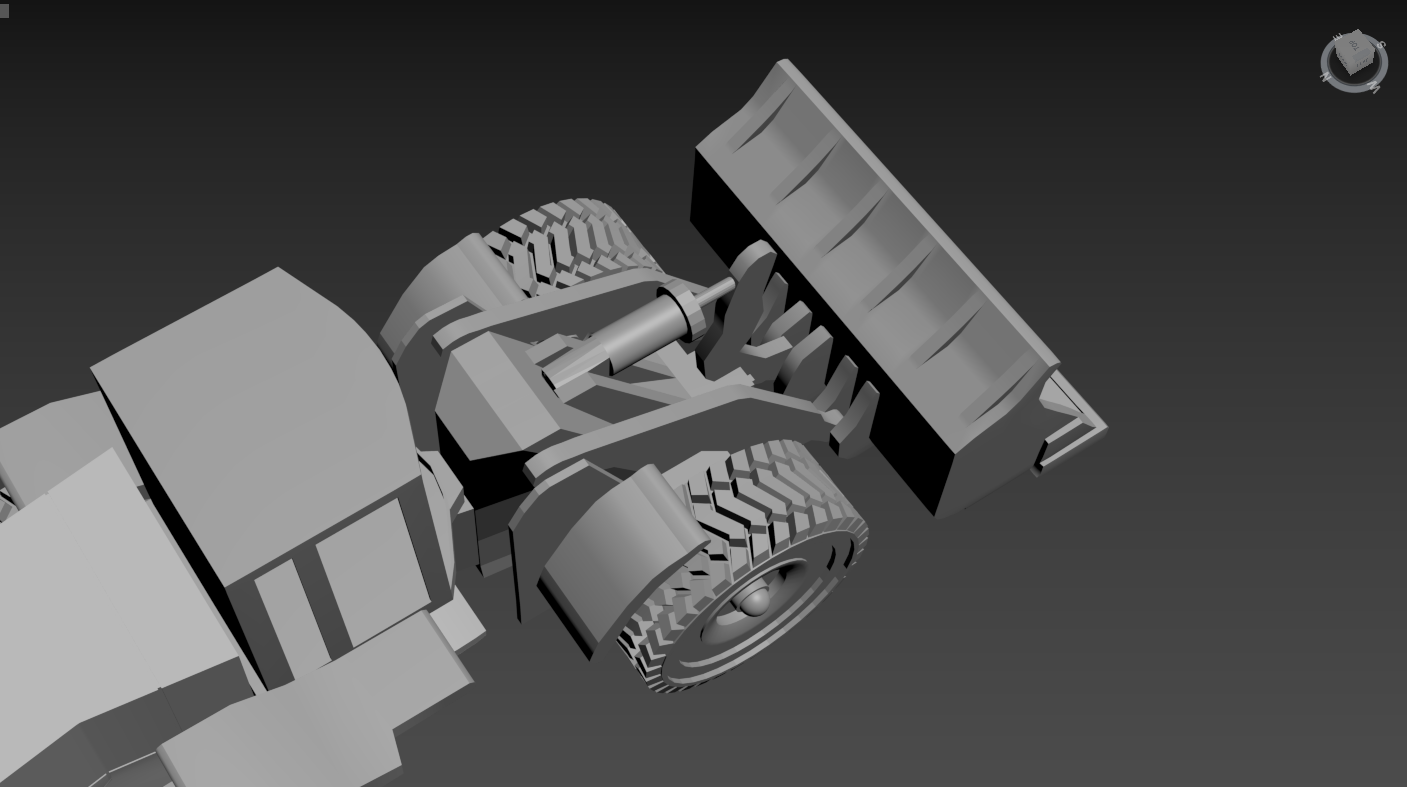
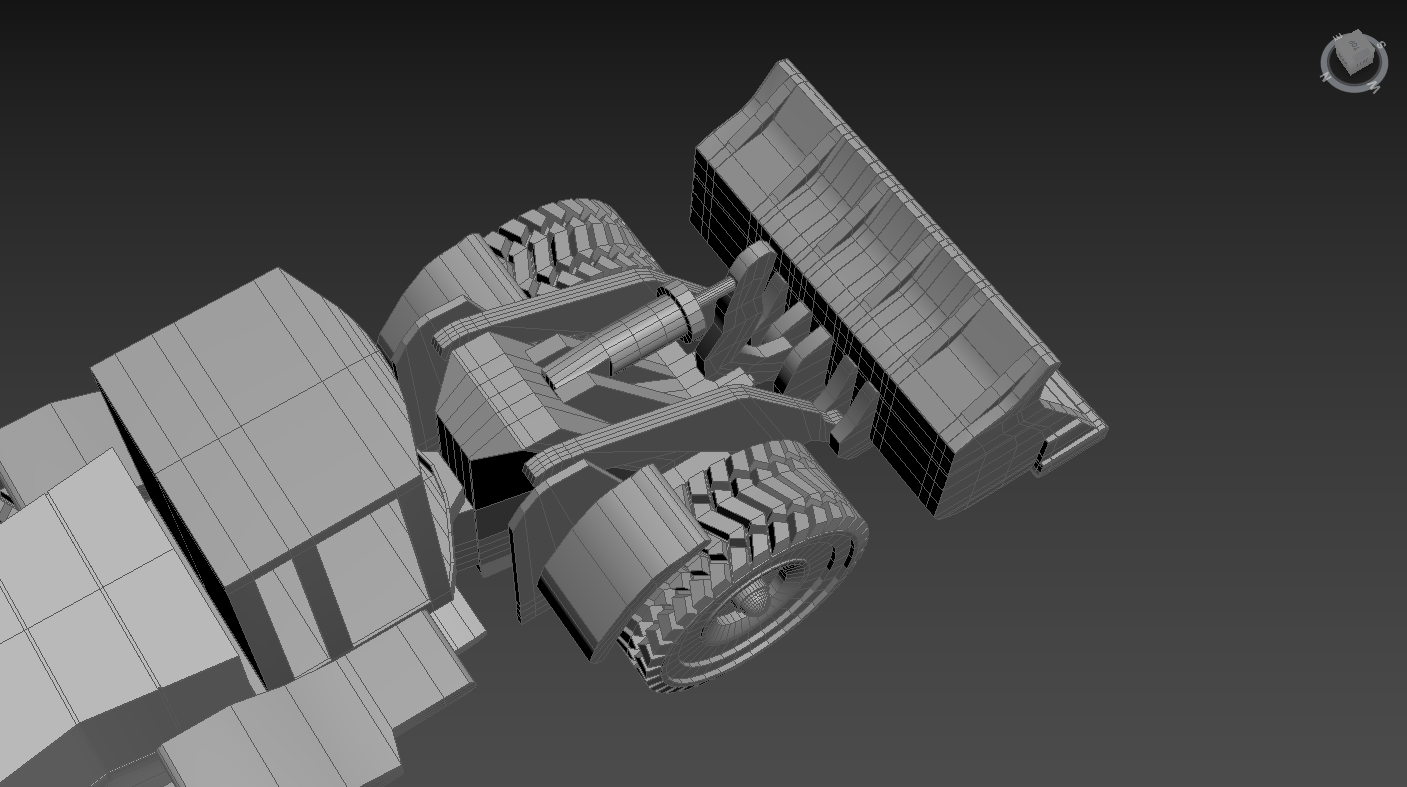
test

diff --git a/_pages/modelling.md b/_pages/modelling.md
@@ -1,0 +1,93 @@
+---
+permalink: /modelling/
+layout: single
+author_profile: false
+title: "Modelling"
+toc: true
+toc_label: "Modelling"
+toc_sticky: true
+
+
+HeavyLoader:
+  - url: Photos/Loader/LoaderFront.png
+    image_path: Photos/Loader/LoaderFront.png
+    alt: "Loader Front"
+    title: "Loader Front"
+
+  - url: Photos/Loader/LoaderTop.png
+    image_path: Photos/Loader/LoaderTop.png
+    alt: "Loader Top"
+    title: "Loader Top"
+
+  - url: Photos/Loader/LoaderWheel.png
+    image_path: Photos/Loader/LoaderWheel.png
+    alt: "Loader Wheel"
+    title: "Loader Wheel"
+
+CounterTop:
+  - url: Photos/Sink/SinkFront.png
+    image_path: Photos/Sink/SinkFront.png
+    alt: "Sink Front"
+    title: "Sink Front"
+
+  - url: Photos/Sink/SinkBack.png
+    image_path: Photos/Sink/SinkBack.png
+    alt: "Sink Back"
+    title: "Sink Back"
+  
+  - url: Photos/Sink/SinkDrawers.png
+    image_path: Photos/Sink/SinkDrawers.png
+    alt: "Sink Drawers"
+    title: "Sink Drawers"
+
+JugGallery:
+  - url: /Photos/Jug/JugFront.png
+    image_path: Photos/Jug/JugFront.png
+    alt: "Jug Front"
+    title: "Jug Front"
+
+  - url: Photos/Jug/JugBack.png
+    image_path: Photos/Jug/JugBack.png
+    alt: "Jug Back"
+    title: "Jug Back"
+
+MidEvilGalleryA:
+  - url: Photos/Tower/TowerFront.png
+    image_path: Photos/Tower/TowerFront.png
+    alt: "Tower Front"
+    title: "Tower Front"
+
+  - url: Photos/Tower/TowerTop.png
+    image_path: Photos/Tower/TowerTop.png
+    alt: "Tower Top"
+    title: "Tower Top"
+
+MidEvilGalleryB:
+  - url: Photos/Tower/Table.png
+    image_path: Photos/Tower/Table.png
+    alt: "Table"
+    title: "Table"
+
+  - url: Photos/Tower/Chest.png
+    image_path: Photos/Tower/Chest.png
+    alt: "Chest"
+    title: "Chest"
+---
+
+## Heavy Loader
+{% include gallery id="HeavyLoader" %}
+
+## Countertop
+{% include gallery id="CounterTop" %}
+
+## Juggaurnaut Cola
+{% include gallery id="JugGallery" %}
+
+## Midevil Tower
+{% include gallery id="MidEvilGalleryA" %}
+{% include gallery id="MidEvilGalleryB" %}
+
+
+
+
+

diff --git a/_pages/scriptsandcinematics.md b/_pages/scriptsandcinematics.md
@@ -1,0 +1,23 @@
+---
+permalink: /scriptsandcinematics/
+layout: single
+author_profile: false
+title: "Scripts & Cinematics"
+toc: true
+toc_label: "Scripts & Cinematics"
+toc_sticky: true
+
+---
+
+## Scripts
+### Sentinal Island Opening Scene
+[View the Opening Script](/Documents/ENL2013_FinalScript_Gauvin_William.pdf){: .btn .btn--info target="_blank"}
+### Sentinal Island Mission: RUN!
+[View the Mission RUN! script](/Documents/ENL2013_Scene2_Gauvin_William.pdf){: .btn .btn--info target="_blank"}
+
+
+## Cinematics
+### Alien Isolation Trailer
+{% include video id="1025728995" provider="vimeo" %}
+### Alien Isolation Gameplay Trailer
+{% include video id="1025730239" provider="vimeo" %}

diff --git a/index.md b/index.md
@@ -1,0 +1,7 @@
+---
+title: index
+layout: splash
+author_profile: false
+---
+
+bye!
